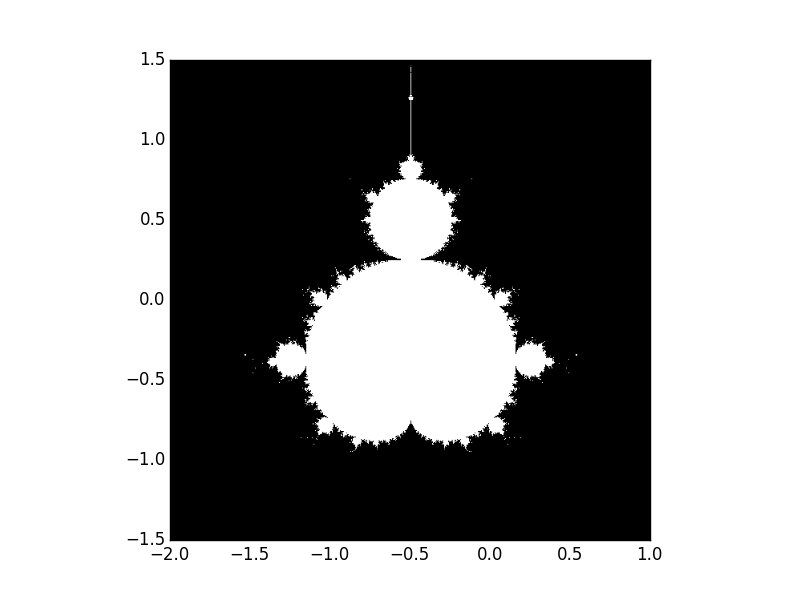
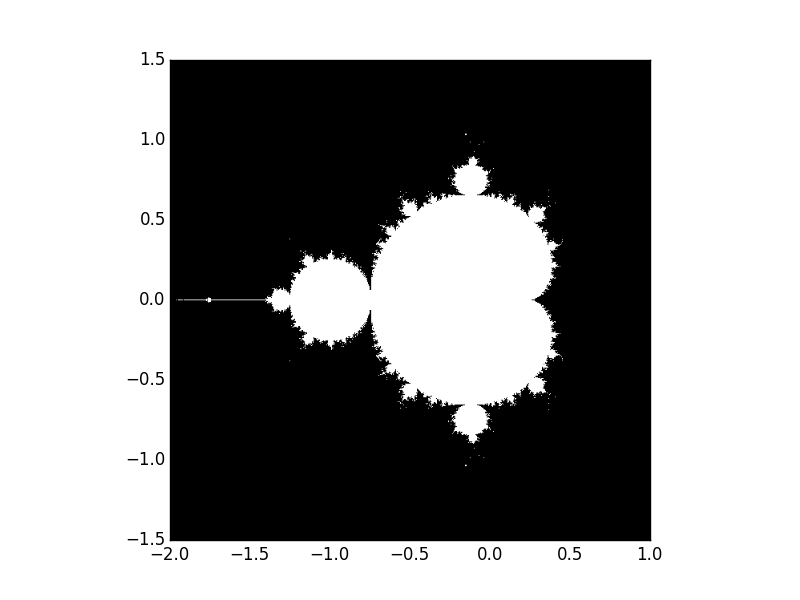
update 11/2

Changed region(s): [[0.25, 0.24, 0.7188, 0.75], [0.5, 0.15, 0.5312, 0.18]]

diff --git a/sy1743/mandelbrot.py b/sy1743/mandelbrot.py
@@ -5,7 +5,7 @@ import numpy as np
 # Question 4
 
 
-def mandelbrot(x, y):
+class mandelbrot(object):
 
     """
     The mandelbrot function would take two values, x and y.
@@ -13,15 +13,21 @@ def mandelbrot(x, y):
     true, elsewise it returns false.
     """
 
-    N_max = 50
-    some_threshold = 50
-    c = x + 1j*y
-    z = c
-    for v in range(N_max):
-        z = z**2 + c
-        if abs(z) >= some_threshold:
-            return False
-    return True
+    def __init__(self, x, y):
+        self.x = x
+        self.y = y
+        self.N_max = 50
+        self.some_threshold = 50
+
+
+def mandelbrot_check(mande):
+        c = mande.x + 1j*mande.y
+        z = c
+        for v in range(mande.N_max):
+            z = z**2 + c
+            if abs(z) >= mande.some_threshold:
+                return False
+        return True
 
 
 def mandelbort_set(xmin, xmax, ymin, ymax):
@@ -38,7 +44,7 @@ def mandelbort_set(xmin, xmax, ymin, ymax):
  
     for pos_y, y in enumerate(Y):           # use for loop to do interation on x and y
         for pos_x, x in enumerate(X):
-            mask[pos_y,pos_x] = mandelbrot(x, y)
+            mask[pos_x,pos_y] = mandelbrot_check(mandelbrot(x, y))
     return mask
 
 

diff --git a/sy1743/assignment7.py b/sy1743/assignment7.py
@@ -23,7 +23,7 @@ try:
 
     #b
     print "\n The answer of Question 1, (b) is"
-    print m2day.make_2D_array(5, 3, 1, 15)[:, 1]
+    print m2day.make_2D_array(5, 3, 1, 15)[:, 1:2]
 
     #c
     print "\n The answer of Question 1, (c) is"
